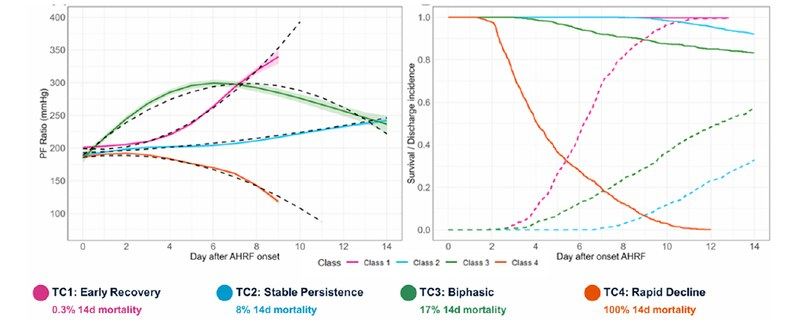
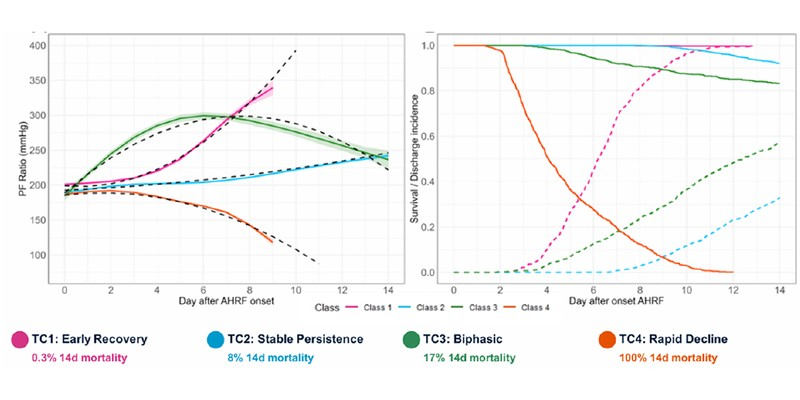
Crop home page paper figures to one 2:1 shape
Claude-Session: https://claude.ai/code/session_016oowNBow48bRjxuYu4ypj6

diff --git a/_sass/_lab_home.scss b/_sass/_lab_home.scss
@@ -273,14 +273,11 @@ html[data-theme="dark"] .navbar .navbar-brand.lab-logo {
   display: none;
 }
 
-// Every figure sits in the same 16:9 box. The image is scaled to fit inside it
-// (never cropped or enlarged), with white filling any leftover space.
+// Every figure is cropped to the same 2:1 shape, so the boxes match.
 .selected-papers .preview {
   width: 100%;
-  aspect-ratio: 16 / 9;
-  object-fit: contain;
-  object-position: center;
+  aspect-ratio: 2 / 1;
+  object-fit: cover;
   background: #fff;
-  padding: 2px;
   margin-top: 0.25rem;
 }
